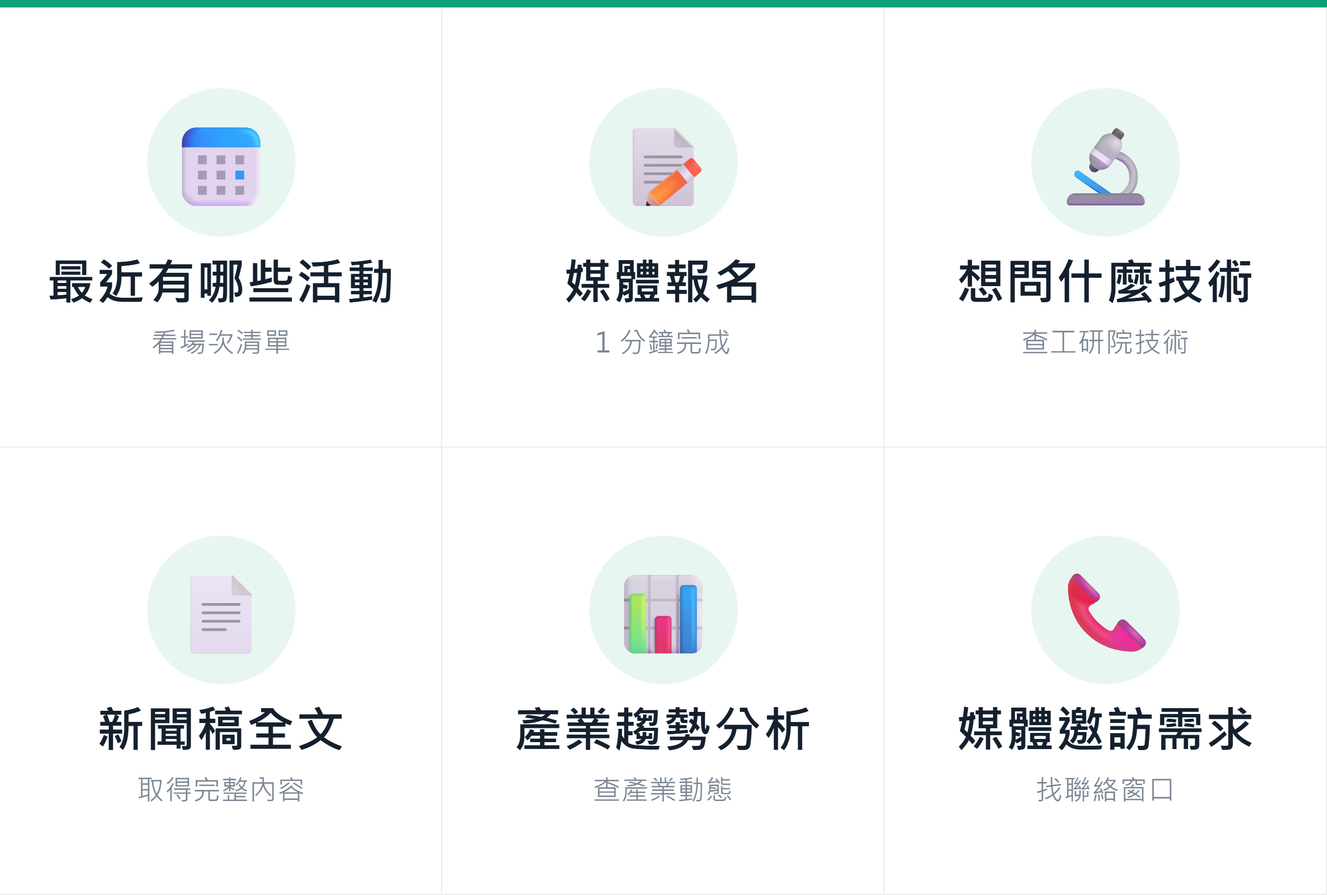
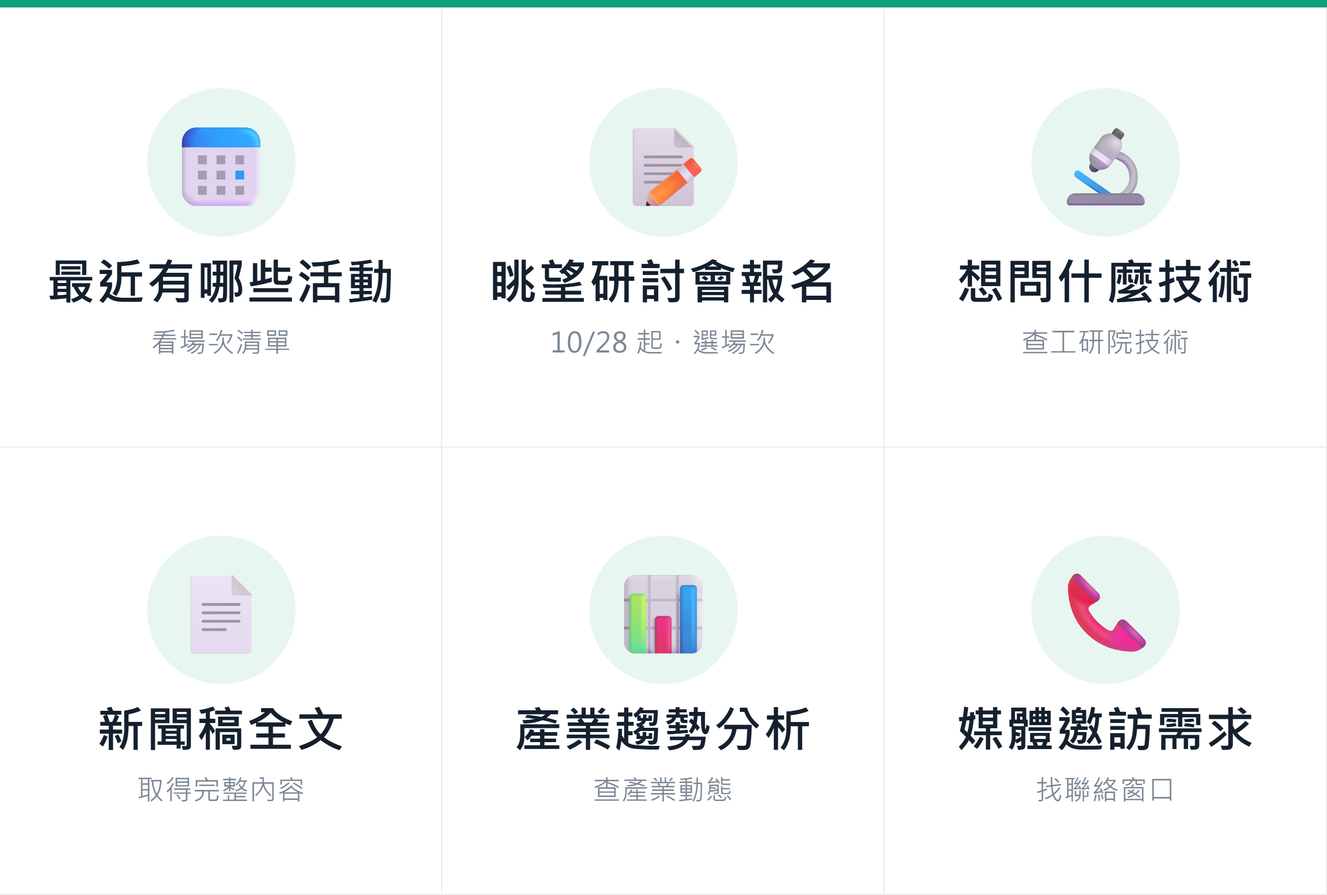
報名入口寫明是哪個活動：選單那格改「眺望研討會報名」，歡迎卡按鈕與卡片小標用後台「LINE 簡稱」（批次 88 補）
朱朱 9/29 提醒：LINE 上只寫「媒體報名」，記者不知道是報哪一場。

- 圖文選單報名版那一格：標題「眺望研討會報名」、副標「10/28 起・選場次」（REG_MENU_TILE），
  底圖 richmenu-reporter-reg.png 重產；換活動時改 REG_MENU_TILE 再跑 build-richmenu.mjs reporter-reg
- 後台新增選填「LINE 簡稱」（reg_campaigns 第 13 欄 short_name，最長 16 字）：
  歡迎卡按鈕「📝 眺望2027場次報名（1 分鐘）」、卡片小標「📝 眺望2027場次報名」；
  兩個活動同時開放時用通用的「媒體報名」；超過 LINE 按鈕 20 字上限時截簡稱、保留結尾「報名」
- 舊的 12 欄 reg_campaigns 第一次讀取時補表頭（只補表頭、失敗只記 log，不影響報名）
- build-richmenu.mjs：修 Windows 的 Chrome 路徑（單引號字串裡的反斜線被吃掉）
- 測試：test-register 206 條、test-register-line 113 條；npm test 全綠
- 文件：LINE-PLAN 批次 88（第 14 點）、SETUP.md

Changed region(s): [[0.3744, 0.2776, 0.624, 0.3393], [0.4056, 0.3701, 0.5928, 0.4009]]

diff --git a/lib/registration.js b/lib/registration.js
@@ -24,10 +24,10 @@ import { lineBasicId, lineAddFriendUrl } from './line-link.js';
 
 // ── 試算表分頁 ────────────────────────────────────────────────────────
 export const CAMPAIGN_HEADERS = ['id', 'title', 'status', 'intro', 'sessions', 'options', 'privacy', 'contact',
-  'closes_at', 'line_pitch', 'created_at', 'updated_at'];
+  'closes_at', 'line_pitch', 'created_at', 'updated_at', 'short_name'];
 export const REG_HEADERS = ['reg_id', 'campaign_id', 'created_at', 'updated_at', 'name', 'outlet', 'email', 'phone',
   'sessions', 'options', 'line_user_id', 'edit_token', 'status', 'source', 'note', 'bound_at'];
-const CAMPAIGN_RANGE = 'reg_campaigns!A2:L';
+const CAMPAIGN_RANGE = 'reg_campaigns!A2:M';
 const REG_RANGE = 'registrations!A2:P';
 const SHEET_SPEC = { reg_campaigns: CAMPAIGN_HEADERS, registrations: REG_HEADERS };
 
@@ -239,12 +239,13 @@ export function campaignFromRow(r) {
     sessions_text: String(row[4] || ''), options_text: String(row[5] || ''),
     privacy: String(row[6] || ''), contact: String(row[7] || ''),
     closes_at: closesAt, line_pitch: String(row[9] || ''),
-    created_at: String(row[10] || ''), updated_at: String(row[11] || '')
+    created_at: String(row[10] || ''), updated_at: String(row[11] || ''),
+    short_name: cleanText(row[12], 16)
   };
 }
 export function campaignToRow(c) {
   return [c.id, c.title, c.status, c.intro || '', c.sessions_text || '', c.options_text || '', c.privacy || '',
-    c.contact || '', c.closes_at || '', c.line_pitch || '', c.created_at || '', c.updated_at || ''];
+    c.contact || '', c.closes_at || '', c.line_pitch || '', c.created_at || '', c.updated_at || '', c.short_name || ''];
 }
 
 export function parseOptionValues(s) {
@@ -354,8 +355,21 @@ let ensuredAt = 0;
 async function ensureRegSheets() {
   if (ensuredAt === Infinity) return;
   if (Date.now() - ensuredAt < 60_000) throw new Error('報名資料表暫時無法建立，請稍後再試');
-  try { await ensureSheets(SHEET_SPEC); ensuredAt = Infinity; }
+  try { await ensureSheets(SHEET_SPEC); }
   catch (e) { ensuredAt = Date.now(); throw e; }
+  ensuredAt = Infinity;
+  await patchCampaignHeader();
+}
+/**
+ * ensureSheets 只會建「不存在」的分頁，不會補欄位：舊的 reg_campaigns 表頭比現在少欄位時補上。
+ * 純屬方便人打開試算表看得懂——資料格本來就讀得到（沒填的欄位讀回來是空的），所以失敗只記 log、
+ * 不能讓報名頁跟著不能用（公開讀取的路徑也會走到這裡）。
+ */
+async function patchCampaignHeader() {
+  try {
+    const head = (await readRange('reg_campaigns!A1:M1'))[0] || [];
+    if (head.length < CAMPAIGN_HEADERS.length) await updateRange('reg_campaigns!A1:M1', [CAMPAIGN_HEADERS]);
+  } catch (e) { console.error('補報名活動表頭失敗（不影響報名）:', e.message); }
 }
 
 const CAMPAIGN_TTL_MS = 20_000;
@@ -613,6 +627,29 @@ export async function findRegistrationsForLineUser(userId) {
   }
 }
 
+/**
+ * LINE 上「報名」按鈕與卡片小標用的名稱：後台「LINE 簡稱」有填就是「簡稱＋報名」（例：眺望2027場次報名），
+ * 沒填就是「媒體報名」。只寫「媒體報名」的話，記者看到按鈕不知道是報哪一場（朱朱 9/29 提醒）。
+ */
+export function registrationLabel(c) {
+  const short = cleanText(c && c.short_name, 16);
+  return short ? `${short}報名` : '媒體報名';
+}
+/**
+ * 歡迎卡最上面那顆按鈕的字。LINE 按鈕文字上限 20 字：放不下先拿掉「（1 分鐘）」，簡稱本身就太長
+ * （16 字上限＋表情＋「報名」會到 21）就截簡稱——一定要留住結尾的「報名」，不能切成「…報」。
+ * 用 UTF-16 長度算（比 LINE 可能用的字元數更嚴），寧可少一個字也不要被退件。
+ */
+export function welcomeButtonLabel(c) {
+  const base = `📝 ${registrationLabel(c)}`;
+  const full = `${base}（1 分鐘）`;
+  if (full.length <= 20) return full;
+  if (base.length <= 20) return base;
+  let short = cleanText(c && c.short_name, 16);
+  while (short && `📝 ${short}報名`.length > 20) short = [...short].slice(0, -1).join('');
+  return `📝 ${short}報名`;
+}
+
 /** 一場一行：「A1 10/28（三）09:30-12:00 開幕論壇暨專刊發表」 */
 export function describeSessions(campaign, codes) {
   const byCode = new Map(campaign.sessions.map((s) => [s.code, s]));
@@ -655,7 +692,7 @@ export function buildRegistrationFlex(campaigns, regs = [], { userId = '' } = {}
       header: {
         type: 'box', layout: 'vertical', backgroundColor: BRAND, paddingAll: '16px', spacing: 'xs',
         contents: [
-          { type: 'text', text: '📝 媒體報名', size: 'xs', color: '#D8F3EA' },
+          { type: 'text', text: `📝 ${registrationLabel(c)}`, size: 'xs', color: '#D8F3EA', wrap: true },
           { type: 'text', text: c.title, size: 'md', weight: 'bold', color: '#FFFFFF', wrap: true },
           ...(range ? [{ type: 'text', text: `${range}・共 ${c.sessions.filter((s) => s.status !== 'cancelled').length} 場`, size: 'xs', color: '#D8F3EA', wrap: true }] : [])
         ]
@@ -751,7 +788,7 @@ export async function adminOverview(campaignId, { includeTest = false } = {}) {
     campaigns: campaigns.map((c) => ({
       id: c.id, title: c.title, status: c.status, intro: c.intro, sessions_text: c.sessions_text, options_text: c.options_text,
       privacy: c.privacy, contact: c.contact, closes_at: c.closes_at, line_pitch: c.line_pitch, updated_at: c.updated_at,
-      session_count: c.sessions.length, accepting: campaignAcceptsSubmissions(c).ok
+      session_count: c.sessions.length, accepting: campaignAcceptsSubmissions(c).ok, short_name: c.short_name
     })),
     current: current ? current.id : '',
     sessions: (current?.sessions || []).map((s) => ({ ...s, ended: isSessionEnded(s) })), options: current?.options || [],
@@ -797,11 +834,11 @@ export async function adminSaveCampaign(input, { now = Date.now() } = {}) {
     intro: cleanMultiline(input.intro, LIMITS.intro),
     sessions_text: sessionsToText(ps.sessions), options_text: optionsToText(po.options),
     privacy: cleanMultiline(input.privacy, LIMITS.privacy), contact: cleanMultiline(input.contact, LIMITS.contact),
-    closes_at: closesAt, line_pitch: cleanMultiline(input.line_pitch, LIMITS.pitch),
+    closes_at: closesAt, line_pitch: cleanMultiline(input.line_pitch, LIMITS.pitch), short_name: cleanText(input.short_name, 16),
     created_at: idx === -1 ? stamp : (rows[idx][10] || stamp), updated_at: stamp
   });
-  if (idx === -1) await appendRows('reg_campaigns!A:L', [row]);
-  else await updateRange(`reg_campaigns!A${idx + 2}:L${idx + 2}`, [row]);
+  if (idx === -1) await appendRows('reg_campaigns!A:M', [row]);
+  else await updateRange(`reg_campaigns!A${idx + 2}:M${idx + 2}`, [row]);
   invalidateCampaignCache();
   return { ok: true, id, created: idx === -1 };
 }

diff --git a/api/line.js b/api/line.js
@@ -43,11 +43,11 @@ import {
 import { buildCalendarCards, buildAllCalendarCards, routeIntent, formatCalendarReply, calendarQuickReplyItems } from '../lib/router.js';
 import {
   detectMetaIntent, detectCourtesy, isOrgWideNewsAsk, isHumanRequest, matchEventByName, MENU_WORDS, HELP_TEXT, ORG_INTRO_TEXT, buildWelcomeFlex,
-  buildRichMenuDefinition, ALL_MENUS, REPORTER_MENU, REPORTER_MENU_REG, STAFF_MENU, findEventMentioned
+  buildRichMenuDefinition, ALL_MENUS, REPORTER_MENU, REPORTER_MENU_REG, REG_MENU_TILE, STAFF_MENU, findEventMentioned
 } from '../lib/menu.js';
 import {
   listOpenCampaigns, listOpenCampaignsStrict, listRegistrationTopics, loadCampaigns, findRegistrationsForLineUser, bindRegistrationToLine, parseRegBindText,
-  buildRegistrationFlex, buildRegistrationText, describeSessions
+  buildRegistrationFlex, buildRegistrationText, describeSessions, welcomeButtonLabel
 } from '../lib/registration.js';
 import {
   isPasscodeMatch, isStaffAuthenticated, authenticateStaff, routeStaffIntent,
@@ -2376,7 +2376,7 @@ async function handleSetupRichMenu(replyToken, userId) {
   await startLoading(userId, 45);
 
   try {
-    // 批次 88：有開放中的媒體報名 → 記者選單用「報名版」（多一格媒體報名）；報名結束後會自動換回
+    // 批次 88：有開放中的媒體報名 → 記者選單用「報名版」（多一格報名入口）；報名結束後會自動換回
     // 原本那套（見 autoRevertRegistrationMenu()），也可以再打一次「設定圖文選單」馬上換。
     // 兩套底圖各自一張（public/richmenu-{key}.png）。
     const reporterMenu = (await listOpenCampaigns()).length ? REPORTER_MENU_REG : REPORTER_MENU;
@@ -2408,7 +2408,7 @@ async function autoRevertRegistrationMenu() {
   const ownerId = process.env.LINE_ADMIN_USER_ID;
   if (ownerId) {
     // 只有真的換的那天才推一則（一次 1 則，不是行銷推播）
-    try { await pushMessage(ownerId, '報名已結束，圖文選單已自動換回原本那套（沒有「媒體報名」那一格了）。'); }
+    try { await pushMessage(ownerId, `報名已結束，圖文選單已自動換回原本那套（沒有「${REG_MENU_TILE.label}」那一格了）。`); }
     catch (e) { console.error('通知管理員失敗:', e.message); }
   }
   return { action: 'reverted', linked: r.linked };
@@ -4457,8 +4457,10 @@ async function handleEvent(ev) {
     // 選單要先點開才看得到，LINE 電腦版則完全不顯示圖文選單（官方文件）。
     // 批次 88：有開放中的媒體報名時，歡迎卡最上面多一顆「媒體報名」。查詢失敗當作沒有，
     // 不能讓新記者因為報名資料表讀不到就收不到歡迎卡（listOpenCampaigns() 自己吞例外）。
-    const hasRegistration = (await listOpenCampaigns()).length > 0;
-    const ok = await replyOrPushMessages(ev.replyToken, userId, [{ ...buildWelcomeFlex('', { registration: hasRegistration }), quickReply: toQuickReply(HOME_MENU) }]);
+    // 按鈕上的字用後台「LINE 簡稱」（例：眺望2027場次報名），只有一個活動開放時才具體，兩個以上就用通用的。
+    const openNow = await listOpenCampaigns();
+    const registration = openNow.length === 1 ? welcomeButtonLabel(openNow[0]) : openNow.length > 1;
+    const ok = await replyOrPushMessages(ev.replyToken, userId, [{ ...buildWelcomeFlex('', { registration }), quickReply: toQuickReply(HOME_MENU) }]);
     if (!ok) {
       await replyOrPush(ev.replyToken, userId,
         '感謝加入好友！\n\n請掃描活動現場的 QR code，或直接輸入「#活動代碼」開始問答；也可以直接打活動名稱，或點下面的按鈕看看目前有哪些活動。\n\n本帳號會記錄您的提問內容以改善新聞服務，不會蒐集您的個人資料。',

diff --git a/public/registrations.html b/public/registrations.html
@@ -152,7 +152,10 @@
       <option value="open">開放報名</option><option value="closed">已截止</option></select>
       <div class="help">要對外發邀請函前，先用「草稿」自己測一輪，再改成「開放報名」。</div></div>
   </div>
-  <div class="fld"><label>活動名稱</label><input type="text" id="e-title"></div>
+  <div class="row2">
+    <div class="fld"><label>活動名稱</label><input type="text" id="e-title"></div>
+    <div class="fld"><label>LINE 簡稱（選填）</label><input type="text" id="e-short" maxlength="16" placeholder="眺望2027場次"><div class="help">出現在米亞歡迎卡的按鈕與報名卡片上，例如「📝 眺望2027場次報名」。留空＝只寫「媒體報名」——記者會不知道報的是哪一場，建議填。</div></div>
+  </div>
   <div class="fld"><label>報名截止時間（選填）</label><input type="text" id="e-closes" placeholder="2026-10-27 12:00　（只寫日期＝當天 23:59 截止）"><div class="help">到了就自動關閉，不用記得手動改狀態。台灣時間。</div></div>
   <div class="fld"><label>報名頁上方說明</label><textarea id="e-intro"></textarea></div>
   <div class="fld"><label>場次清單</label><textarea class="mono" id="e-sessions" spellcheck="false"></textarea>
@@ -208,7 +211,8 @@ const SAMPLE = {
     ['H2', '2026-11-06', '13:30-16:30', '電力建設', '402 廳', '', 3565]
   ].map(([code, date, time, title, room, note, sid]) => [code, date, time, title, room, note, '', IEK + sid].join('｜')).join('\n'),
   options: ['interview｜想參加 09:15 媒體聯訪（名額有限，由主辦單位另行確認）｜A1', 'meal｜需要餐盒（活動結束後領取）｜A1', 'party｜同行人數（含攝影，不含本人）｜｜number'].join('\n'),
-  contact: '工研院行銷傳播處 朱則瑋\nitriA70541@itri.org.tw\n0934-267-766'
+  contact: '工研院行銷傳播處 朱則瑋\nitriA70541@itri.org.tw\n0934-267-766',
+  short_name: '眺望2027場次'
 };
 
 function toast(msg) { const t = $('toast'); t.textContent = msg; t.classList.add('show'); clearTimeout(toast.t); toast.t = setTimeout(() => t.classList.remove('show'), 2200); }
@@ -408,6 +412,7 @@ function openEdit(isNew) {
   $('e-id').value = isNew ? SAMPLE.id : c.id; $('e-id').disabled = !isNew;
   $('e-status').value = isNew ? 'draft' : c.status;
   $('e-title').value = isNew ? SAMPLE.title : c.title;
+  $('e-short').value = isNew ? SAMPLE.short_name : (c.short_name || '');
   $('e-closes').value = isNew ? '' : c.closes_at;
   $('e-intro').value = isNew ? SAMPLE.intro : c.intro;
   $('e-sessions').value = isNew ? SAMPLE.sessions : c.sessions_text;
@@ -424,7 +429,7 @@ async function saveEdit() {
     const body = {
       id: $('e-id').value, title: $('e-title').value, status: $('e-status').value, closes_at: $('e-closes').value,
       intro: $('e-intro').value, sessions_text: $('e-sessions').value, options_text: $('e-options').value,
-      contact: $('e-contact').value, privacy: $('e-privacy').value, line_pitch: $('e-pitch').value
+      contact: $('e-contact').value, privacy: $('e-privacy').value, line_pitch: $('e-pitch').value, short_name: $('e-short').value
     };
     const r = await callJson('POST', 'reg_admin_save_campaign', body);
     CUR = r.id; closeModal('m-edit'); toast(r.created ? '已建立' : '已儲存'); await load();

diff --git a/lib/menu.js b/lib/menu.js
@@ -508,6 +508,7 @@ function actionButton(label, text, primary) {
 // altText，不動 lineExtraRules／system prompt 那邊的回答語氣，範圍刻意收窄：
 // 使用者只要求改歡迎卡，不是整個帳號的人格重寫。
 // registration：有開放中的媒體報名時傳 true（api/line.js 加好友時查），多一顆最醒目的「媒體報名」按鈕。
+// registration 也可以直接傳按鈕上的字（api/line.js 用後台的「LINE 簡稱」組出來，例如「📝 眺望2027場次報名（1 分鐘）」）。
 export function buildWelcomeFlex(organizer = '', { registration = false } = {}) {
   const bubble = {
     type: 'bubble',
@@ -544,7 +545,7 @@ export function buildWelcomeFlex(organizer = '', { registration = false } = {}) 
       type: 'box', layout: 'vertical', spacing: 'sm', paddingAll: '14px',
       contents: registration
         ? [
-            actionButton('📝 媒體報名（1 分鐘）', '我要報名', true),
+            actionButton(typeof registration === 'string' ? registration : '📝 媒體報名（1 分鐘）', '我要報名', true),
             actionButton('看看最近有哪些活動', '最近有哪些活動', false),
             actionButton('詳細使用說明', '使用說明', false)
           ]
@@ -636,12 +637,17 @@ export const STAFF_MENU = {
 // 只有開放中的報名活動存在時才會用這一套（api/line.js handleSetupRichMenu() 依當下有沒有
 // 開放中的活動挑），報名結束後在 LINE 重打一次「設定圖文選單」就換回原本那套。
 // 底圖 public/richmenu-reporter-reg.png 要另外產：node assets/build-richmenu.mjs reporter-reg
+// 圖上的字是「這一場活動專屬」的：選單底圖是一張靜態圖，沒辦法像歡迎卡那樣讀後台的活動名稱，寫成
+// 「媒體報名」記者看了不知道是報哪一場（朱朱 9/29 提醒）。換活動時改這一格的字，再跑
+// node assets/build-richmenu.mjs reporter-reg 重新產底圖。送出的字（text）一律是「我要報名」。
+export const REG_MENU_TILE = { icon: '📝', label: '眺望研討會報名', sub: '10/28 起・選場次', text: '我要報名' };
+
 export const REPORTER_MENU_REG = {
   ...REPORTER_MENU,
   key: 'reporter-reg',
   name: '記者主選單（報名版）',
   buttons: REPORTER_MENU.buttons.map(b => (b.text === '回首頁'
-    ? { icon: '📝', label: '媒體報名', sub: '1 分鐘完成', text: '我要報名' }
+    ? { ...REG_MENU_TILE }
     : b))
 };
 

diff --git a/LINE-PLAN.md b/LINE-PLAN.md
@@ -5833,7 +5833,7 @@ draft／archived**（`lib/staff.js`，職員要能管理還沒發布的場次）
 
 | 分頁 | 欄位 |
 |---|---|
-| `reg_campaigns`（A–L） | id, title, status（draft／open／closed）, intro, sessions, options, privacy, contact, closes_at, line_pitch, created_at, updated_at |
+| `reg_campaigns`（A–M） | id, title, status（draft／open／closed）, intro, sessions, options, privacy, contact, closes_at, line_pitch, created_at, updated_at, short_name（LINE 簡稱，見 14） |
 | `registrations`（A–P） | reg_id, campaign_id, created_at, updated_at, name, outlet, email, phone, sessions（逗號）, options（`key=value;`）, line_user_id, edit_token, status（active／cancelled／deleted）, source（web／line，草稿活動尾巴加 `:test`）, note, bound_at |
 
 場次在後台用**一個文字框整批貼**（跟 `contacts`／`chips` 同一種做法）：
@@ -5875,13 +5875,19 @@ draft／archived**（`lib/staff.js`，職員要能管理還沒發布的場次）
    `line_users` 的媒體名稱，之後米亞不必再問「貴媒體名稱」。
 7. **意圖只認整句**（`REGISTER_EXACT_RE`）：「我要報名／怎麼報名／我的報名／我報名了嗎」命中，「報名費用多少」
    「報名截止是什麼時候」「以後會開放報名嗎」不攔，交給問答。命中一律固定程式回覆，不呼叫模型。
-8. **圖文選單變體。** 報名開放期間把「回首頁」那格換成「媒體報名」（`REPORTER_MENU_REG`）——「回首頁」在每則回覆
+8. **圖文選單變體。** 報名開放期間把「回首頁」那格換成報名入口（`REPORTER_MENU_REG`）——「回首頁」在每則回覆
    底下的快速回覆列都有、打字也一直認得；報名只在開放的那一兩週需要永遠看得到的入口。**不是新指令**：
    `handleSetupRichMenu()` 依當下有沒有開放中的活動挑版本，職員照舊打「設定圖文選單」；報名結束後再打一次
    就換回原本那套。底圖 `public/richmenu-reporter-reg.png` 用 `node assets/build-richmenu.mjs reporter-reg`
    產（腳本現在可以只產指定的 key，不會把另外兩張現成的重畫）。⚠ 這張是在 Windows 上產的，字型與 emoji
    樣式跟原本兩張（Linux）不同，整張自成一格風格；圖示用 📝——原本想用的 🎟（U+1F39F）在部分平台
    會畫成黑色文字符號，要用 emoji-default 的字元。
+   **那一格寫的是活動名，不是「媒體報名」（朱朱 9/29 提醒：籠統的「媒體報名」記者看了不知道報什麼）**：
+   標題「眺望研討會報名」、副標「10/28 起・選場次」（`lib/menu.js` 的 `REG_MENU_TILE`，送出的字仍是「我要報名」）。
+   ⚠ 選單底圖是一張靜態圖，不像歡迎卡能讀後台的活動名稱——**換活動時要改 `REG_MENU_TILE` 的字、重跑
+   `node assets/build-richmenu.mjs reporter-reg`、重新部署，再打「設定圖文選單」**。字的寬度有測試把關（標題 ≤ 8 個
+   全形字寬、副標 ≤ 12，超過會塞不進格子）。順手修了 `build-richmenu.mjs` 的 Windows 路徑（單引號字串裡的
+   `\P` 反斜線會被吃掉，Chrome 一直找不到，之前是靠 `CHROME=` 環境變數繞過）。
 9. **Sheets 配額。** 報名頁讀活動內容：模組層快取 20 秒＋ `Cache-Control: s-maxage=30`（邀請函一寄出，
    幾十人同時開頁不會把每分鐘 60 次的讀取打光）；送出一次＝讀一次名單＋寫一次。`ensureSheets` 每個
    instance 只確認一次（失敗 60 秒後再試，同 `ensureLineUsersSheet()`）。`vercel.json` 給 `api/events.js` 30 秒：Sheets 限流時
@@ -5913,11 +5919,20 @@ draft／archived**（`lib/staff.js`，職員要能管理還沒發布的場次）
     ④ **報名資料不會自動刪除。** 姓名／Email／手機留在 `registrations` 分頁，因為 11/4 成效一頁還要用報名家數、
        綁定 LINE 人數、每場人數。要不要在活動後 N 天自動匿名化（清掉姓名／Email／手機／LINE userId，保留單位、
        場次、統計），是人要決定的事（保存期限）；還沒做。
+14. **LINE 上的報名入口寫明是哪個活動（朱朱 9/29 提醒）。** 後台「LINE 簡稱」（選填，第 13 欄 `short_name`，最長
+    16 字；預填「眺望2027場次」）決定米亞歡迎卡最上面那顆按鈕與「我要報名」卡片小標怎麼寫：
+    - 有填 → 按鈕「📝 眺望2027場次報名（1 分鐘）」、卡片小標「📝 眺望2027場次報名」；沒填 → 照舊「📝 媒體報名」。
+    - **只有一個活動開放時才用簡稱**；兩個以上同時開放就用通用的「媒體報名」（不偏袒其中一個），卡片各自寫各自的簡稱。
+    - LINE 按鈕文字上限 20 字：放不下先拿掉「（1 分鐘）」，簡稱本身太長（16 字＋表情＋「報名」＝21）就截簡稱、
+      **一定留住結尾的「報名」**（用 UTF-16 長度算，比 LINE 的算法更嚴）。
+    - 正式站的 `reg_campaigns` 在加這一欄之前就已自動建好（12 欄）：`ensureRegSheets()` 第一次會把表頭補成 13 欄
+      （只補表頭、一格資料都不動；表頭齊全時冷啟動不寫任何東西；補表頭失敗只記 log，不影響報名——公開讀取也會走到這裡）。沒填簡稱的舊活動讀回來是空字串，行為跟以前一樣。
+    - 網頁上的報名頁不用簡稱（頁面標題本來就是完整活動名稱），公開的 `reg_config` 也不回傳這一欄。
 
-**驗證**：新增 `test/test-register.mjs`（190 條：場次／選填解析、後台建立、公開讀取、送出與去重、額滿、
-草稿測試、LINE 簽章、防濫用、後台總覽與記者名單對照、CSV、活動結束後場次消失與自動關閉）與 `test/test-register-line.mjs`（99 條：意圖、
+**驗證**：新增 `test/test-register.mjs`（206 條：場次／選填解析、後台建立、公開讀取、送出與去重、額滿、
+草稿測試、LINE 簽章、防濫用、後台總覽與記者名單對照、CSV、活動結束後場次消失與自動關閉）與 `test/test-register-line.mjs`（113 條：意圖、
 歡迎卡、卡片內容與簽章、群組不帶身分、`#報名` 綁定各種失敗、沒有報名可講時不攔（含剛截止一週內回「已截止」、
-日期一律相對今天算）、職員看得到草稿、選單依報名挑版本、報名結束後選單自動換回的各種情況）；兩份測試都把
+日期一律相對今天算）、職員看得到草稿、選單依報名挑版本、選單那一格與歡迎卡按鈕寫明活動、簡稱過長的截法、報名結束後選單自動換回的各種情況）；兩份測試都把
 `Date.now` 固定在 2026-09-29，過了 10/28 也不會因為「場次辦完了」而自己壞掉；
 `test/loader-reg.mjs` 是「通用假試算表＋假 LINE」的混合 loader。`npm test` 全部通過。報名頁與後台頁另外
 用真的 `api/events.js`＋記憶體假試算表在瀏覽器裡實際走過一遍（手機／桌機、送出、修改、LINE 導流卡與 QR、

diff --git a/SETUP.md b/SETUP.md
@@ -60,9 +60,13 @@
 - 報名頁不需要登入、不需要 LINE；後台頁沿用管理員密碼（跟 `/report`、`/geo` 一樣同分頁導覽免重登）。
 - 報名活動有三種狀態：**草稿**（只有拿到連結的人開得到，送出的報名標成測試、不算進統計）、**開放報名**、**已截止**
   （也可以設截止時間，到了自動關）。上線前先用草稿自己測一輪。
-- 報名期間想讓圖文選單多一格「媒體報名」：LINE 職員模式打「設定圖文選單」（有開放中的活動會自動裝報名版）；
+- 報名期間想讓圖文選單多一格報名入口（寫的是「眺望研討會報名」，不是籠統的「媒體報名」）：LINE 職員模式打
+  「設定圖文選單」（有開放中的活動會自動裝報名版）；
   **報名結束後會自動換回原本那套**（Vercel Cron 每天 03:00 檢查一次，用 `CRON_SECRET`——AI 能見度排程本來就在用；
   只在正式站跑），也可以再打一次「設定圖文選單」馬上換。底圖用 `node assets/build-richmenu.mjs reporter-reg` 產。
+  **換成別的活動時**：改 `lib/menu.js` 的 `REG_MENU_TILE`（標題／副標）→ 重跑上面那行 → 部署 → 再打「設定圖文選單」。
+- 後台編輯報名活動時有一欄「LINE 簡稱」（例：眺望2027場次）：米亞歡迎卡的按鈕與「我要報名」卡片會寫成
+  「📝 眺望2027場次報名」；留空就只寫「媒體報名」，記者會不知道報的是哪一場，建議填。
 - **活動結束後報名會自己收掉**：辦完的場次自動從報名頁消失；所有場次辦完（或過了截止時間）活動自動關閉，
   米亞的卡片、歡迎卡按鈕、報名頁跟著收掉，不用有人記得去改狀態。報名資料（姓名／Email／手機）不會自動刪除。
 
